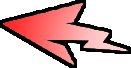
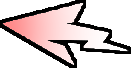
ajout du rouge sur la fleche hover

Changed region(s): [[0.0, 0.0294, 0.9771, 0.9706]]

diff --git a/JS.js b/JS.js
@@ -95,19 +95,16 @@ thumbnails.forEach(smallThumb => {
             const chemin = fav.src;
             if (chemin.endsWith("images/arrangement/etoile_blanc.png")) {
                 fav.src = "images/arrangement/etoile_gold.png"; 
-                
                 ajouterFavori(nomFichier);
                 smallThumb.classList.add("favori_image");
                 afficherFavoris();
             }
             else {
                 fav.src = "images/arrangement/etoile_blanc.png";
-                
                 supprimerFavori(nomFichier);
                 smallThumb.classList.remove("favori_image");
-
-                affFav(favMenu.src.endsWith("images/arrangement/etoileMenu_gold.png"));
             }
+            affFav(favMenu.src.endsWith("images/arrangement/etoileMenu_gold.png"));
         }
 
         /* Système de livret des images zoomés */
@@ -131,10 +128,14 @@ thumbnails.forEach(smallThumb => {
             }
         }
 
-        /* Quand la flèche retour est entré */
-        document.getElementById("retour").onclick = function() {
+        /* Quand la flèche retour est survolé */
+        retour.addEventListener('mouseenter', () => {
             retour.src = "images/arrangement/retour-fleche2.png";
-        }
+        });
+
+        retour.addEventListener('mouseleave', () => {
+            retour.src = "images/arrangement/retour-fleche.png";
+        });
     });
 });
 
